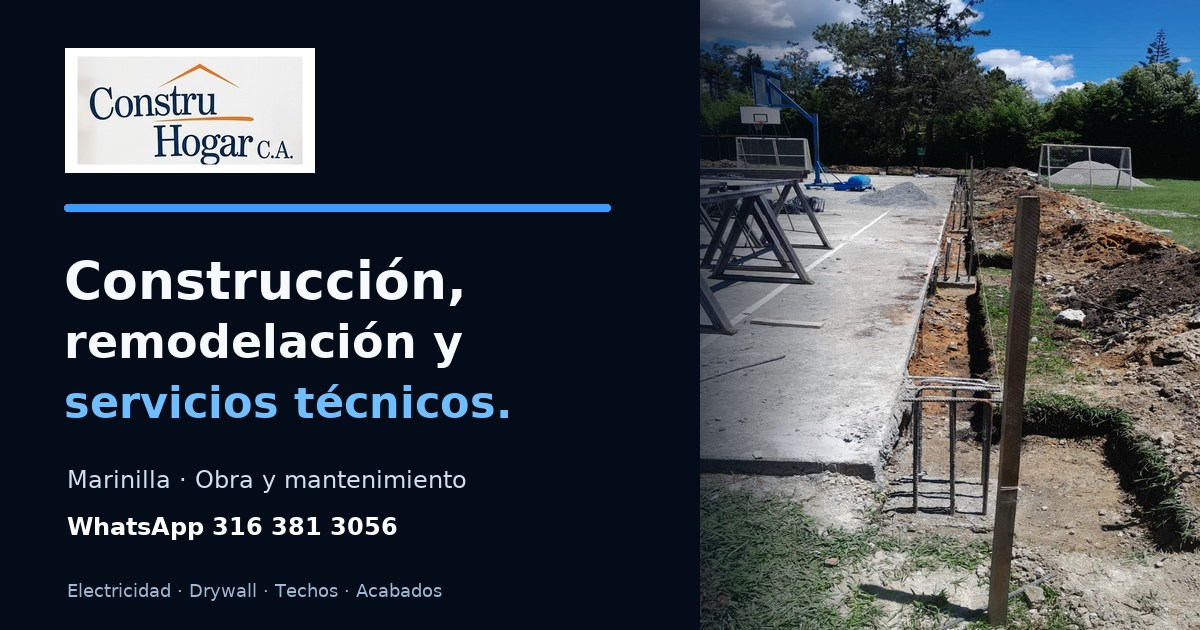
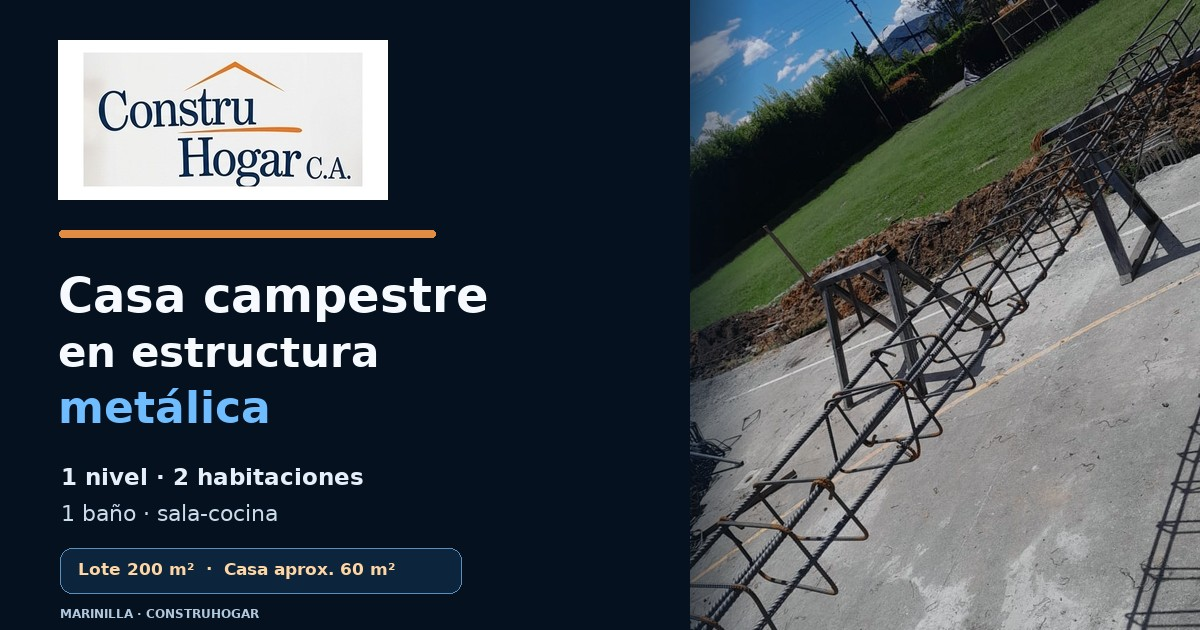
Publicar página y vista previa de vivienda campestre

diff --git a/index.html b/index.html
@@ -16,8 +16,8 @@
 <meta property="og:title" content="Construhogar · Construcción y servicios en Marinilla">
 <meta property="og:description" content="Casa campestre de un nivel en estructura metálica, lote de 200 m² y vivienda aproximada de 60 m². Construhogar · Marinilla.">
 <meta property="og:url" content="https://construhogar.co/">
-<meta property="og:image" content="https://construhogar.co/assets/og-construhogar.jpg?v=6">
-<meta property="og:image:secure_url" content="https://construhogar.co/assets/og-construhogar.jpg?v=6">
+<meta property="og:image" content="https://construhogar.co/assets/og-construhogar.jpg?v=7">
+<meta property="og:image:secure_url" content="https://construhogar.co/assets/og-construhogar.jpg?v=7">
 <meta property="og:image:type" content="image/jpeg">
 <meta property="og:image:width" content="1200">
 <meta property="og:image:height" content="630">
@@ -25,7 +25,7 @@
 <meta name="twitter:card" content="summary_large_image">
 <meta name="twitter:title" content="Construhogar · Ingeniería civil en Marinilla">
 <meta name="twitter:description" content="Construcción, remodelación y servicios locativos en Marinilla.">
-<meta name="twitter:image" content="https://construhogar.co/assets/og-construhogar.jpg?v=6">
+<meta name="twitter:image" content="https://construhogar.co/assets/og-construhogar.jpg?v=7">
 <link rel="icon" href="assets/favicon.ico" sizes="any">
 <link rel="icon" type="image/svg+xml" href="assets/favicon.svg">
 <link rel="apple-touch-icon" href="assets/apple-touch-icon.png">
@@ -240,7 +240,7 @@ body{background:#040b16}.header{background:#06101df2;border-color:#72b5ff24}.nav
     for(const x of [-5.4,5.4])for(const z of [-2.8,2.8]){addBox(x,.32,z,.22,.7,.22,'#745236','#bc9567');addBox(x,.85,z,.75,.65,.75,'#376c48','#84af70')}
   }
   buildHouse();
-  const assemblyOrder=boxList.map((b,i)=>({b,i,stage:i<3?0:(["#596e7d"].includes(b.color)?1:(b.color==="#d8ddd8"||b.color==="#f0ede6")?2:3)})).sort((a,b)=>a.stage-b.stage||a.i-b.i).map(x=>x.b);
+  const assemblyOrder=boxList.map((b,i)=>({b,i,stage:i<3?0:(["#596e7d","#8499a5"].includes(b.color)?1:(b.color==="#d8ddd8"||b.color==="#f0ede6")?2:3)})).sort((a,b)=>a.stage-b.stage||a.i-b.i).map(x=>x.b);
   const faces=[[0,1,3,2],[4,6,7,5],[0,4,5,1],[2,3,7,6],[0,2,6,4],[1,5,7,3]];
   function fitCanvas(){if(!canvas||!ctx)return;const r=canvas.getBoundingClientRect(),d=Math.min(window.devicePixelRatio||1,1.6);if(!r.width||!r.height)return;canvas.width=Math.round(r.width*d);canvas.height=Math.round(r.height*d);ctx.setTransform(d,0,0,d,0,0);drawHouse()}
   function shadeColor(hex,factor){const n=parseInt(hex.slice(1),16),r=Math.min(255,Math.max(0,Math.round((n>>16)*factor))),g=Math.min(255,Math.max(0,Math.round(((n>>8)&255)*factor))),b=Math.min(255,Math.max(0,Math.round((n&255)*factor)));return `rgb(${r},${g},${b})`}
